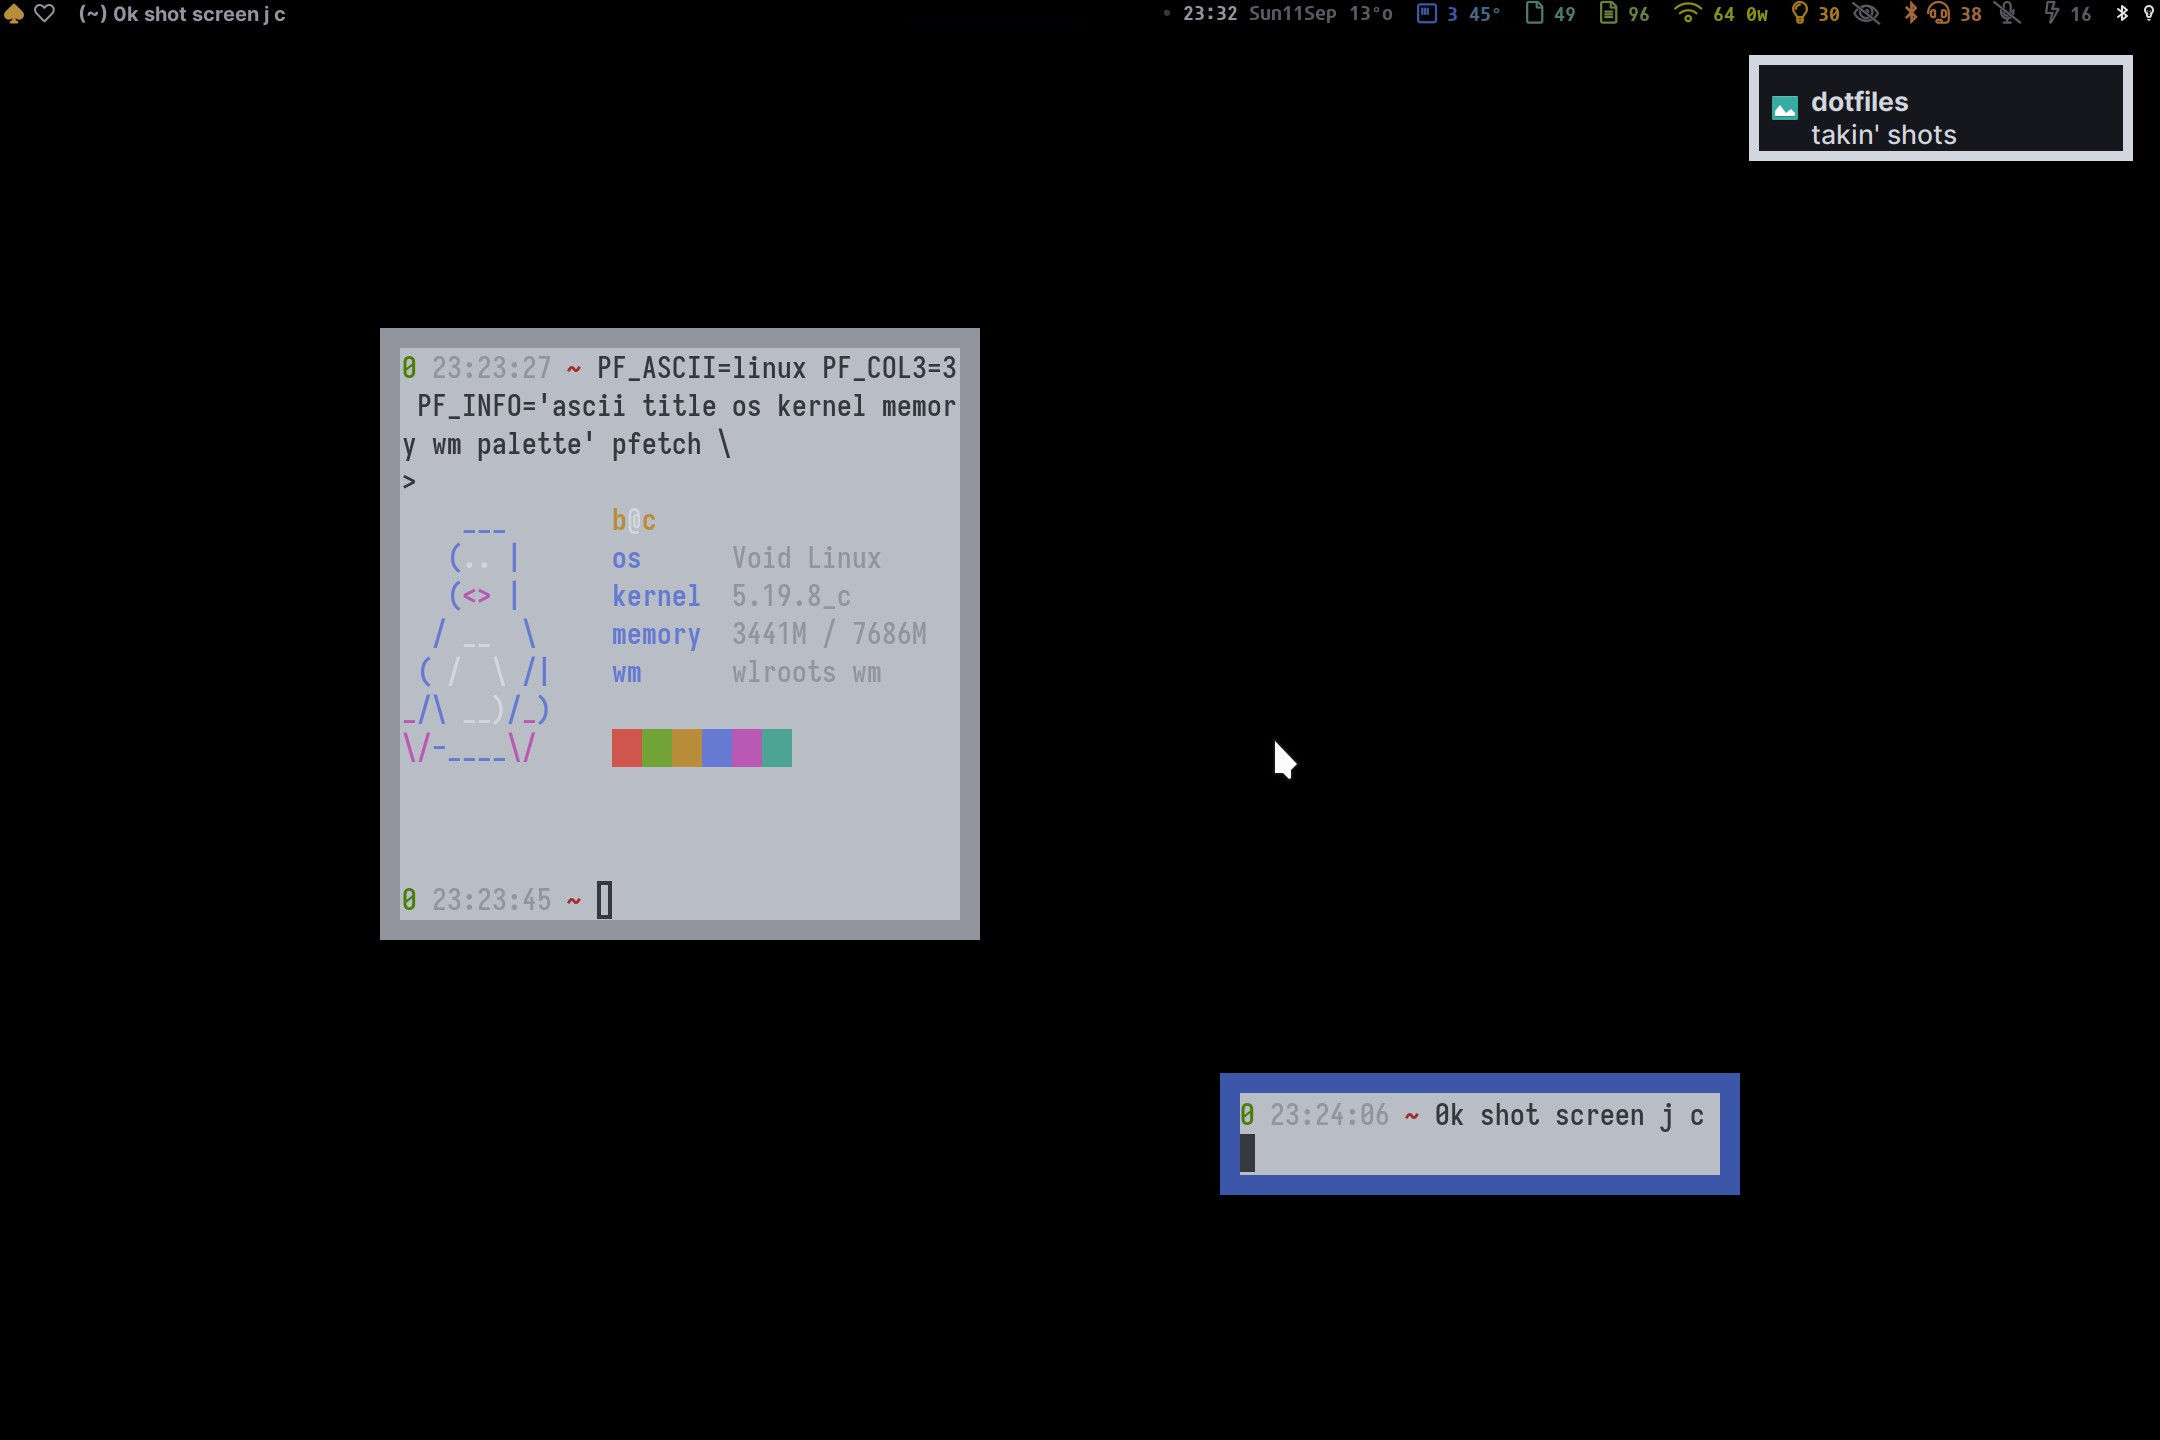
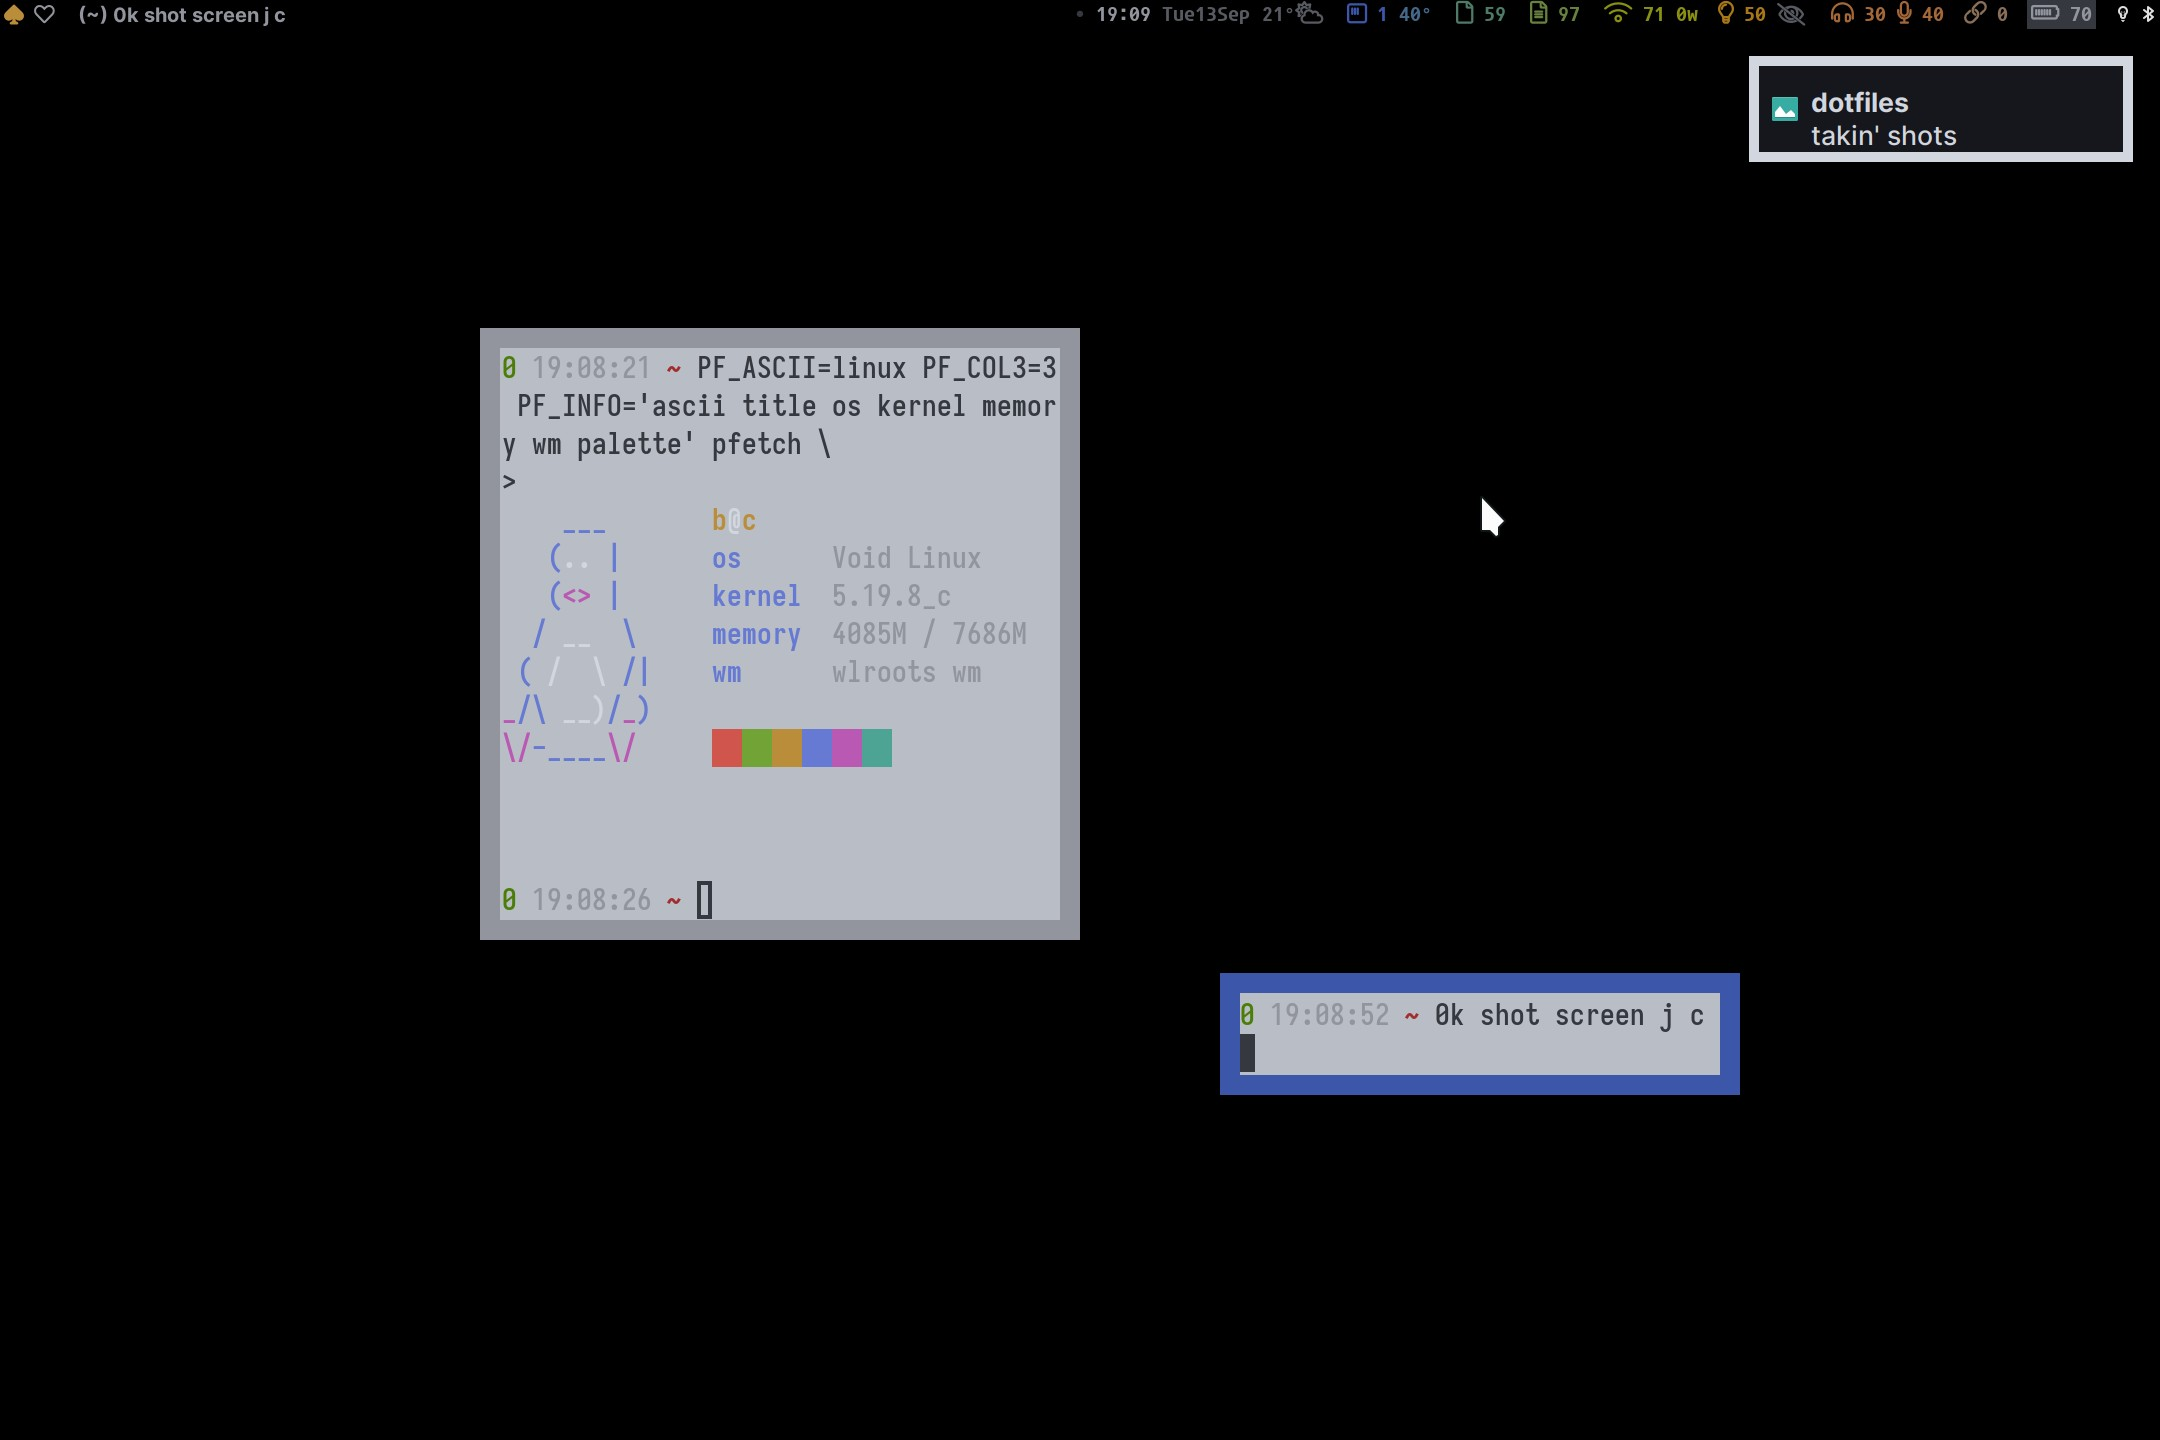
add usb to waybar

diff --git a/_waybar/.config/waybar/style.css b/_waybar/.config/waybar/style.css
@@ -1,6 +1,8 @@
+/* top */
 * { border: none; border-radius: 0; min-height: 0; }
 window#waybar { background-color: #000000; color: #575a61; }
 window#waybar.hidden { opacity: 0.2; }
+/* font */
 #workspaces button {
   font-family: "Font Awesome 5 Pro Light";
   font-size: 20px;
@@ -20,6 +22,7 @@ window#waybar.hidden { opacity: 0.2; }
 #network,
 #backlight,
 #idle_inhibitor,
+#custom-usb,
 #battery {
   font-family: Agave, "Font Awesome 5 Pro Light";
   font-size: 22px;
@@ -42,56 +45,95 @@ window#waybar.hidden { opacity: 0.2; }
   font-family: sans, "FreeSans";
   font-size: 26px;
 }
+/* spacing */
+#workspaces,
+#workspaces button,
 #mode,
-#window {
-  margin-right: 0;
+#window,
+#clock,
+#custom-weather,
+#cpu,
+#temperature,
+#memory,
+#disk,
+#network,
+#backlight,
+#idle_inhibitor,
+#idle_inhibitor.deactivated,
+#pulseaudio,
+#custom-usb,
+#battery {
+  margin: 0;
+  padding: 0;
 }
+#mode,
+#idle_inhibitor,
+#battery {
+  padding: 0 4px;
+}
+#custom-usb {
+  margin: 0 11px 0 8px;
+}
+/* spacing: top */
+#clock,
+#cpu {
+  padding-top: 2px;
+}
+/* spacing: left */
 #workspaces,
 #mode,
 #idle_inhibitor {
   margin-left: 2px;
 }
-#mode,
-#idle_inhibitor,
-#battery {
-  margin: 0;
-  padding: 0 4px;
-}
+#window { margin-left: 4px; }
 #clock,
+#cpu,
+#temperature,
+#memory,
+#disk,
+#network,
+#backlight,
+#pulseaudio {
+  margin-left: 12px;
+}
+#idle_inhibitor.deactivated { margin-left: 3px; }
+#tray { margin-left: 8px; }
+/* spacing: right */
+#workspaces { margin-right: 4px; }
+#workspaces button { margin-right: 6px; min-width: 24px; }
+#clock,
+#custom-weather,
 #temperature,
 #memory,
 #disk,
 #network,
 #pulseaudio {
-  margin: 0 12px;
+  margin-right: 12px;
 }
-#clock,
-#cpu,
-#backlight {
-  margin-left: 12px;
-}
-#clock,
-#custom-weather,
-#cpu {
-  padding-top: 2px;
-}
-#workspaces { margin-right: 4px; }
-#workspaces button { margin-right: 6px; padding: 0; min-width: 24px; }
-#workspaces button:hover { background: none; text-shadow: none; box-shadow: none; }
-#window { margin-left: 4px; }
-#custom-weather { margin-right: 12px; }
-#backlight { margin-right: 8px; }
 #idle_inhibitor { margin-right: 10px; }
-#idle_inhibitor.deactivated { margin-left: 0; margin-right: 8px; }
+#idle_inhibitor.deactivated { margin-right: 14px; }
+#backlight,
 #battery {
   margin: 0 8px;
 }
 #battery.charging,
 #battery.plugged {
   margin: 0 12px;
-  padding: 0;
 }
-#tray { margin-left: 8px; padding-bottom: 1px; }
+/* spacing: bottom */
+#custom-weather,
+#cpu,
+#memory,
+#disk,
+#network,
+#backlight,
+#pulseaudio,
+#custom-usb,
+#battery,
+#tray {
+  padding-bottom: 1px;
+}
+/* color */
 #workspaces button.urgent,
 #temperature.critical {
   color: #cf554d;
@@ -104,6 +146,7 @@ window#waybar.hidden { opacity: 0.2; }
 #pulseaudio.muted {
   color: #575a61;
 }
+#workspaces button:hover { background: none; text-shadow: none; box-shadow: none; }
 #workspaces button#sway-workspace-1.focused { color: #ba8d3b; }
 #workspaces button#sway-workspace-2.focused { color: #ba59b3; }
 #workspaces button#sway-workspace-3.focused { color: #72a336; }
@@ -117,6 +160,7 @@ window#waybar.hidden { opacity: 0.2; }
 #backlight                                  { color: #a87817; }
 #idle_inhibitor.activated { background-color: #a87817; color: #16161d; }
 #pulseaudio                                 { color: #a46738; }
+#custom-usb                                 { color: #896e58; }
 #battery         { background-color: #36383f; color: #92959d; }
 #battery.critical:not(.charging)            { color: #d2d6de; }
 #battery.charging,
